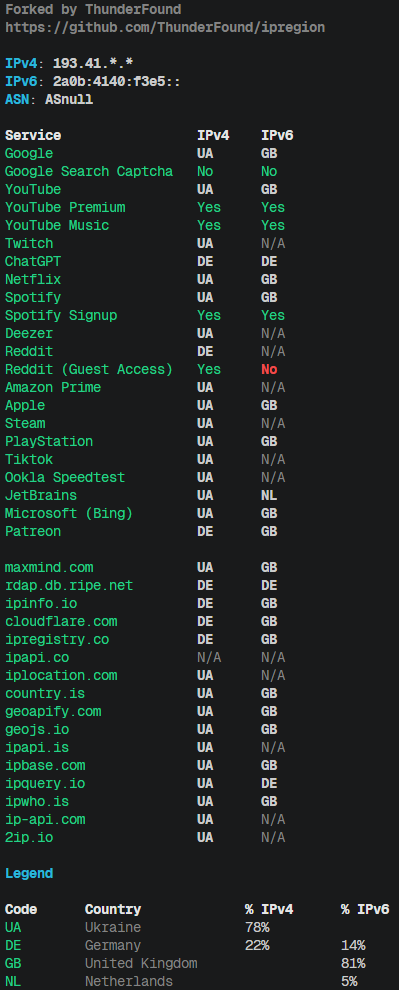
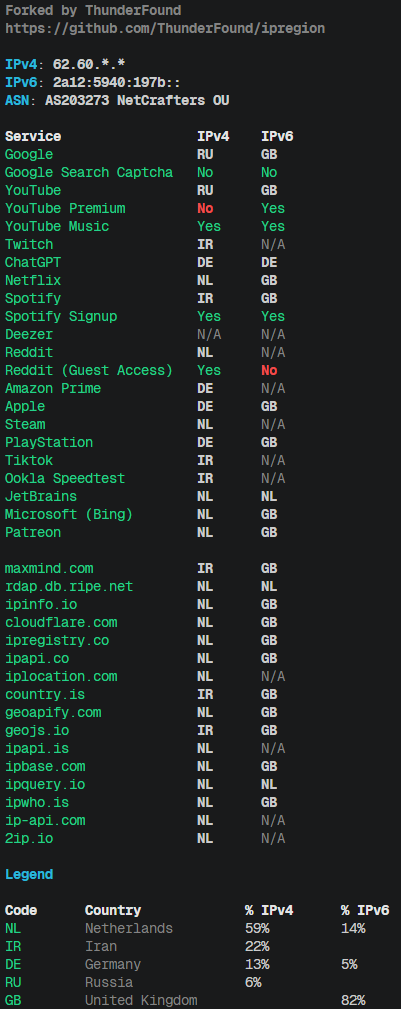
update readme and help

diff --git a/README.md b/README.md
@@ -11,12 +11,16 @@ bash <(wget -qO- https://raw.githubusercontent.com/ThunderFound/ipregion/refs/he
 
 Output example:
 
-![image](images/preview.png)
+<p>
+  <img src="images/preview.png" width="45%" align="top" />
+  <img src="images/ping.png" width="45%" align="top" />
+</p>
 
 ## What's New in This Fork
 
 This fork of the fork has a few features added:
 - Parallelization: it takes a lot less time
+- Ping test
 - New services (only 1 currently): Patreon
 
 ## Main features
@@ -50,6 +54,9 @@ For manual lookup of codes, you can use the official ISO website: [https://www.i
 
 # Check all services with default settings
 ./ipregion.sh
+
+# Run a ping test
+./ipregion.sh --ping
 
 # Check only GeoIP services
 ./ipregion.sh --group primary
@@ -93,6 +100,7 @@ IPRegion — determines your IP geolocation using various GeoIP services and pop
 
 Options:
   -h, --help           Show this help message and exit
+  -ping, --ping        Run a ping test
   -v, --verbose        Enable verbose logging
   -j, --json           Output results in JSON format
   -g, --group GROUP    Run only one group: 'primary', 'custom', 'cdn' or 'all' (default: all)
@@ -104,6 +112,7 @@ Options:
 
 Examples:
   ipregion.sh                       # Check all services with default settings
+  ipregion.sh --ping                # Run a ping test
   ipregion.sh -g primary            # Check only GeoIP services
   ipregion.sh -g custom             # Check only popular websites
   ipregion.sh -g cdn                # Check only CDN